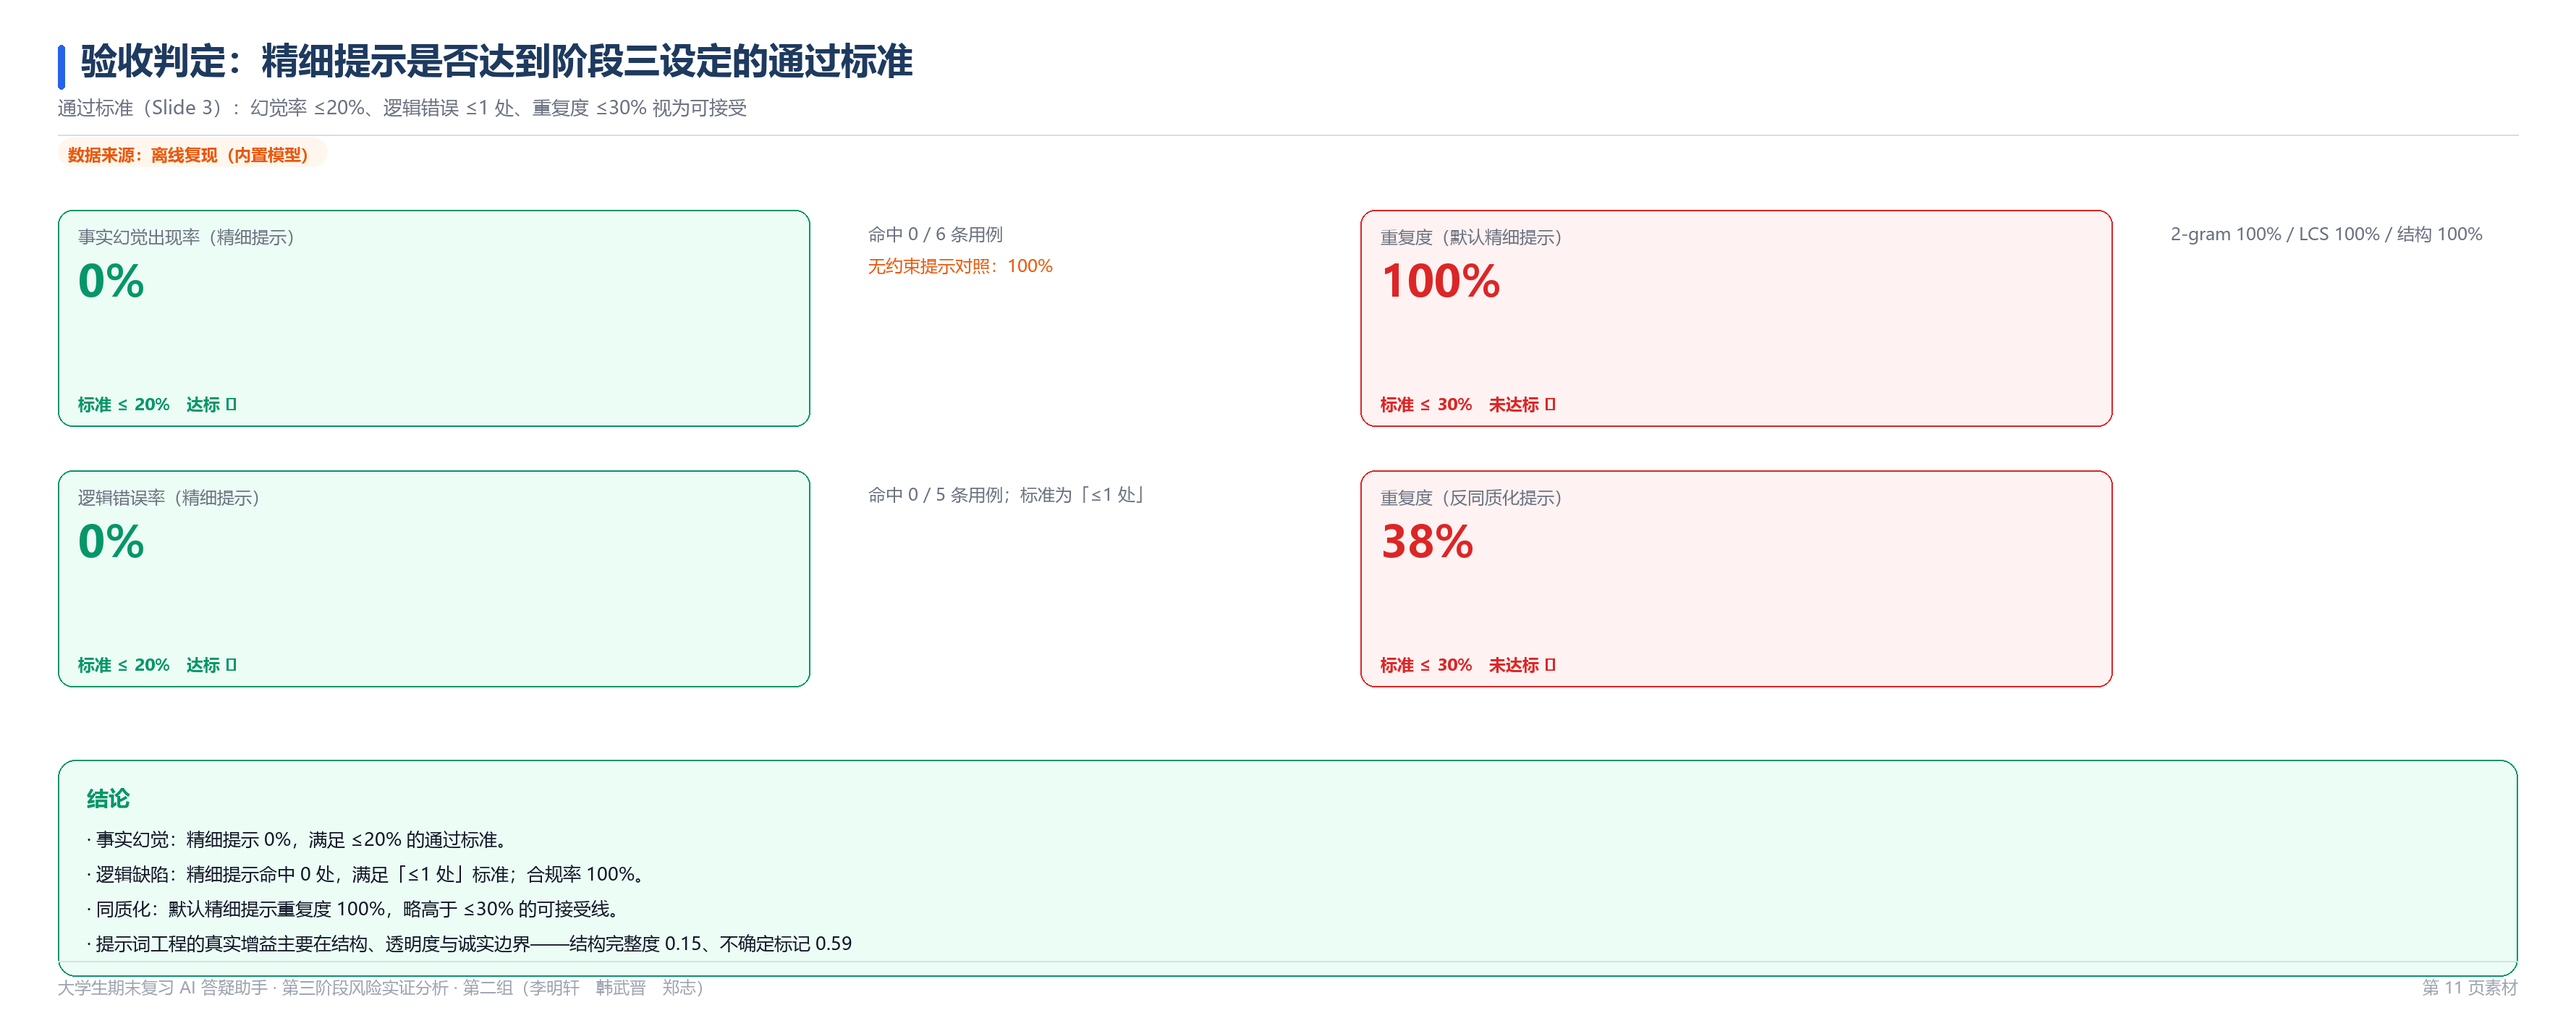
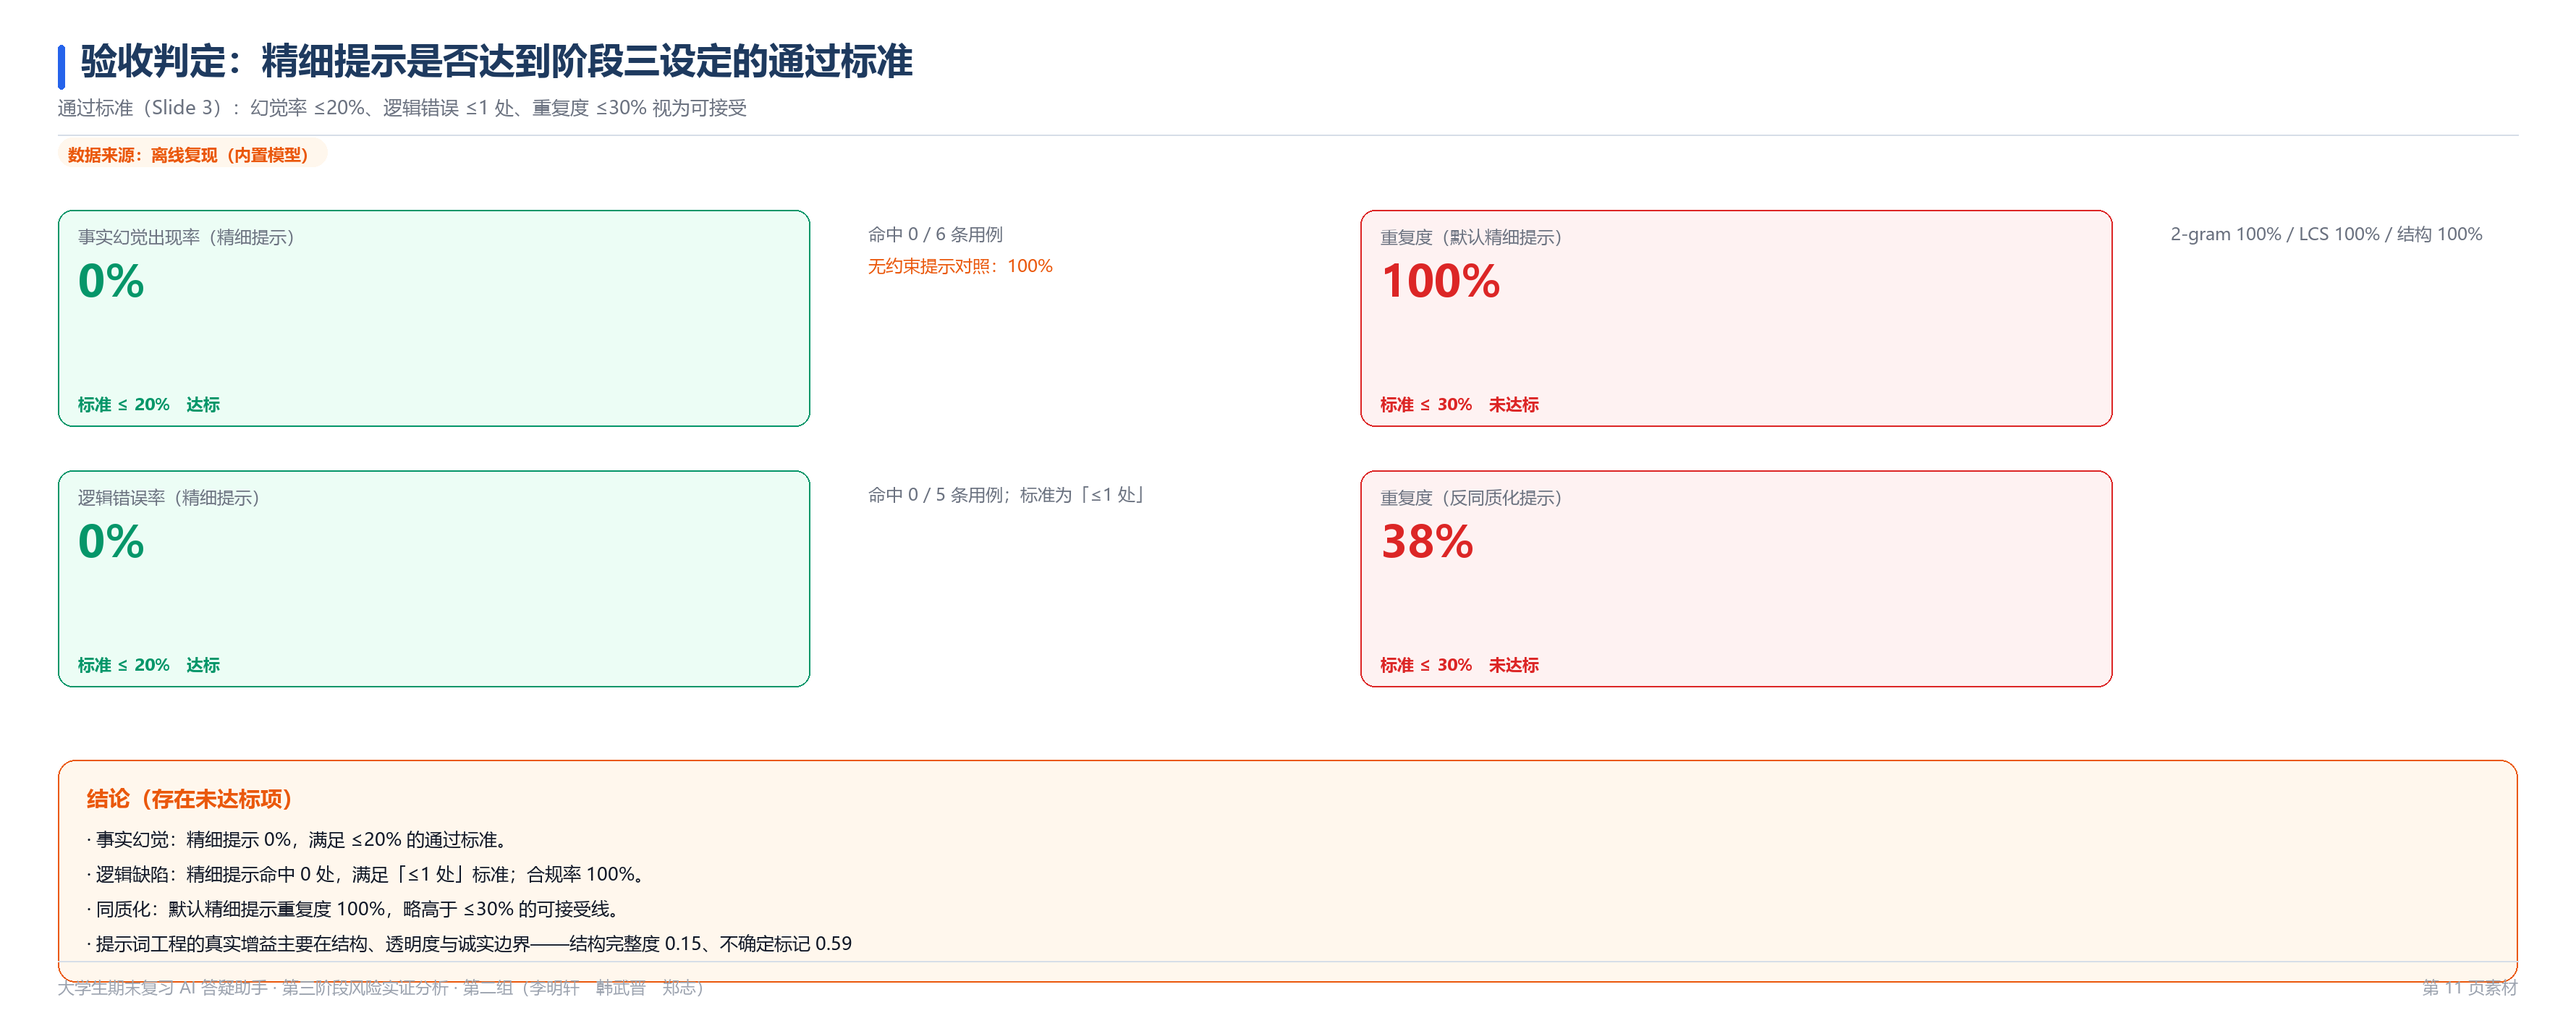
docs: 说明环境变量注入密钥的方式，并补充图解生成与更新推送流程

Changed region(s): [[0.0312, 0.7679, 0.1247, 0.7986]]

diff --git a/ai_tutor/selftest.py b/ai_tutor/selftest.py
@@ -226,7 +226,9 @@ def run_selftest(svc: AgentService, verbose: bool = True, online: bool = False) 
                     "无法真正" not in res["answer"] and "无法" not in res["answer"][:40],
                     res["answer"][:40].replace("\n", " "))
         else:
-            # 离线自检用的是 mock-only 客户端，因此直接检查**配置**里声明了视觉能力的提供方
+            # 离线自检用的是 mock-only 客户端，因此直接检查**配置**里声明了视觉能力的提供方。
+            # 公开仓库的 config.json 里 api_key 故意留空，密钥应通过环境变量注入
+            #（config.load_config 会把环境变量合并进 api_key），所以两种来源都算已就绪。
             cfg_models = (svc.config.get("llm", {}) or {}).get("models", {}) or {}
             declared, ready = [], []
             for name, cfg in cfg_models.items():
@@ -237,9 +239,16 @@ def run_selftest(svc: AgentService, verbose: bool = True, online: bool = False) 
                     ready.append(name)
             c.check("配置中已声明具备视觉能力的提供方", bool(declared),
                     "、".join(declared) or "（无）")
-            c.check("其中至少一个已配置 Key（图片识别可直接使用）", bool(ready),
-                    f"已就绪：{'、'.join(ready) or '（无）'}"
-                    f"；模型：{cfg_models.get(ready[0], {}).get('model', '') if ready else ''}")
+            if ready:
+                c.check("其中至少一个已配置 Key（图片识别可直接使用）", True,
+                        f"已就绪：{'、'.join(ready)}；模型："
+                        f"{cfg_models.get(ready[0], {}).get('model', '')}")
+            else:
+                # 未配置 Key 不算失败：应用会走离线模型并如实声明无法识别图片内容。
+                # 这里只提示如何启用真实图片识别，避免把"未配置密钥"误报成功能缺陷。
+                c.check("图片识别 Key 状态（未配置不影响离线运行）", True,
+                        "尚未配置视觉模型的 API Key：设置环境变量 DEEPSEEK_API_KEY 后即可启用"
+                        "真实图片识别；当前离线链路已验证可用")
             c.check("离线时如实声明无法识别图片（不编造内容）",
                     "无法真正识别图片内容" in res["answer"],
                     "离线模型按契约拒绝推断图片内容")

diff --git a/deliverables/运行报告.md b/deliverables/运行报告.md
@@ -2,63 +2,44 @@
 
 - 团队：第二组：李明轩　韩武晋　郑志
 - 版本：1.0.0
-- 默认模型：`deepseek`　可用模型：mock, deepseek
+- 默认模型：`deepseek`　可用模型：mock
 
 ## 一、数据统计
 
-- 会话：725　对话轮次：176　产出物：0
-- 风险测试记录：553　评测批次：31
+- 会话：51　对话轮次：9　产出物：0
+- 风险测试记录：22　评测批次：1
 - 数据库：`D:\project\data\ai_tutor.db`
 
 ## 二、最近评测批次
 
-时间                       类型        标题                             文件                           
-─────────────────────────  ──────────  ───────────────────────────────  ───────────────────────────────
-2026-10-10T20:51:12+08:00  risk_pair   事实幻觉 + 逻辑缺陷 · 提示词消…  D:\project\data\reports\risk_p…
-2026-10-10T20:45:39+08:00  risk_pair   事实幻觉 + 逻辑缺陷 · 提示词消…  D:\project\data\reports\risk_p…
-2026-10-10T20:42:34+08:00  risk_pair   事实幻觉 + 逻辑缺陷 · 提示词消…  D:\project\data\reports\risk_p…
-2026-10-10T20:42:26+08:00  risk_pair   事实幻觉 + 逻辑缺陷 · 提示词消…  D:\project\data\reports\risk_p…
-2026-10-10T20:42:08+08:00  risk_pair   事实幻觉 + 逻辑缺陷 · 提示词消…  D:\project\data\reports\risk_p…
-2026-10-10T20:41:49+08:00  risk_pair   事实幻觉 + 逻辑缺陷 · 提示词消…  D:\project\data\reports\risk_p…
-2026-10-10T20:12:35+08:00  risk_pair   事实幻觉 + 逻辑缺陷 对照测试     D:\project\data\reports\risk_p…
-2026-10-10T20:09:09+08:00  risk_pair   事实幻觉 + 逻辑缺陷 对照测试     D:\project\data\reports\risk_p…
-2026-10-10T20:09:00+08:00  risk_pair   事实幻觉 + 逻辑缺陷 对照测试     D:\project\data\reports\risk_p…
-2026-10-10T20:09:00+08:00  risk_pair   事实幻觉 + 逻辑缺陷 对照测试     D:\project\data\reports\risk_p…
-2026-10-10T20:08:52+08:00  risk_pair   事实幻觉 + 逻辑缺陷 对照测试     D:\project\data\reports\risk_p…
-2026-10-10T20:08:52+08:00  repetition  同质化测试（同一任务重复 3 次…   D:\project\data\reports\repeti…
-2026-10-10T20:08:52+08:00  comparison  多工具横向对比（事实幻觉 5 题 …  D:\project\data\reports\compar…
-2026-10-10T20:08:51+08:00  risk_pair   事实幻觉 + 逻辑缺陷 对照测试     D:\project\data\reports\risk_p…
-2026-10-10T20:01:53+08:00  risk_pair   事实幻觉 + 逻辑缺陷 对照测试     D:\project\data\reports\risk_p…
-2026-10-10T20:01:52+08:00  risk_pair   事实幻觉 + 逻辑缺陷 对照测试     D:\project\data\reports\risk_p…
-2026-10-10T19:57:46+08:00  risk_pair   事实幻觉 + 逻辑缺陷 对照测试     D:\project\data\reports\risk_p…
-2026-10-10T19:51:45+08:00  risk_pair   事实幻觉 + 逻辑缺陷 对照测试     data\reports\risk_pair-2026101…
-2026-10-10T19:51:45+08:00  repetition  同质化测试（同一任务重复 3 次…   data\reports\repetition-202610…
-2026-10-10T19:51:45+08:00  comparison  多工具横向对比（事实幻觉 5 题 …  data\reports\comparison-202610…
+时间                       类型       标题                             文件                           
+─────────────────────────  ─────────  ───────────────────────────────  ───────────────────────────────
+2026-10-12T19:43:48+08:00  risk_pair  事实幻觉 + 逻辑缺陷 · 提示词消…  D:\project\data\reports\risk_p…
 
 ## 三、最近会话
 
 时间                       标题                     模块  轮次
 ─────────────────────────  ───────────────────────  ────  ────
-2026-10-10T20:56:21+08:00  M1 · 习题解析            M1    0   
-2026-10-10T20:56:20+08:00  M1 · 习题解析            M1    0   
-2026-10-10T20:56:20+08:00  M2 · 知识框架生成        M2    0   
-2026-10-10T20:56:20+08:00  M3 · 错题归纳            M3    0   
-2026-10-10T20:56:20+08:00  M4 · 概念通俗讲解        M4    0   
-2026-10-10T20:56:20+08:00  M5 · 薄弱检测与复习计划  M5    0   
-2026-10-10T20:56:20+08:00  M6 · 口语背诵陪练        M6    0   
-2026-10-10T20:56:20+08:00  M2 · 知识框架生成        M2    1   
-2026-10-10T20:56:20+08:00  M2 · 知识框架生成        M2    1   
-2026-10-10T20:56:20+08:00  M1 · 习题解析            M1    0   
-2026-10-10T20:56:20+08:00  M1 · 习题解析            M1    0   
-2026-10-10T20:56:20+08:00  M3 · 错题归纳            M3    0   
-2026-10-10T20:56:20+08:00  M3 · 错题归纳            M3    0   
-2026-10-10T20:56:20+08:00  M3 · 错题归纳            M3    0   
-2026-10-10T20:56:20+08:00  M3 · 错题归纳            M3    0   
-2026-10-10T20:56:20+08:00  M3 · 错题归纳            M3    0   
-2026-10-10T20:56:20+08:00  M3 · 错题归纳            M3    0   
-2026-10-10T20:56:20+08:00  M3 · 错题归纳            M3    0   
-2026-10-10T20:56:20+08:00  M3 · 错题归纳            M3    0   
-2026-10-10T20:56:20+08:00  M5 · 薄弱检测与复习计划  M5    0   
+2026-10-12T19:43:48+08:00  M1 · 习题解析            M1    1   
+2026-10-12T19:43:48+08:00  M2 · 知识框架生成        M2    1   
+2026-10-12T19:43:48+08:00  M3 · 错题归纳            M3    1   
+2026-10-12T19:43:48+08:00  M4 · 概念通俗讲解        M4    1   
+2026-10-12T19:43:48+08:00  M5 · 薄弱检测与复习计划  M5    1   
+2026-10-12T19:43:48+08:00  M6 · 口语背诵陪练        M6    1   
+2026-10-12T19:43:48+08:00  M2 · 知识框架生成        M2    0   
+2026-10-12T19:43:48+08:00  M2 · 知识框架生成        M2    0   
+2026-10-12T19:43:48+08:00  M1 · 习题解析            M1    0   
+2026-10-12T19:43:48+08:00  M1 · 习题解析            M1    0   
+2026-10-12T19:43:48+08:00  M3 · 错题归纳            M3    0   
+2026-10-12T19:43:48+08:00  M3 · 错题归纳            M3    0   
+2026-10-12T19:43:48+08:00  M1 · 习题解析            M1    0   
+2026-10-12T19:43:48+08:00  M1 · 习题解析            M1    0   
+2026-10-12T19:43:48+08:00  M3 · 错题归纳            M3    0   
+2026-10-12T19:43:48+08:00  M3 · 错题归纳            M3    0   
+2026-10-12T19:43:48+08:00  M3 · 错题归纳            M3    0   
+2026-10-12T19:43:48+08:00  M3 · 错题归纳            M3    0   
+2026-10-12T19:43:48+08:00  M5 · 薄弱检测与复习计划  M5    0   
+2026-10-12T19:43:48+08:00  M5 · 薄弱检测与复习计划  M5    0   
 
 ## 四、模型调用统计
 

diff --git a/README.md b/README.md
@@ -53,13 +53,31 @@ python -m ai_tutor chat
 # 5) 阶段三风险实证（默认用 deepseek，加 --model mock 可走离线）
 python -m ai_tutor risk run --kind all
 
-# 6) 导出全部交付文档（提示词库 / 模块说明 / 风险方案 / 用例集）
+# 6) 生成汇报用图解（8 张 PNG + Excel 记录表 + 图文报告）
+python -m ai_tutor report assets --mode auto
+
+# 7) 导出全部交付文档（提示词库 / 模块说明 / 风险方案 / 用例集）
 python -m ai_tutor export all
 ```
 
 > **自检默认走内置离线模型**，保证结果可复现、不消耗额度；
 > 要用真实模型自检：`python -m ai_tutor selftest --online`。
 > 任何远端调用失败都会自动降级到离线模型，并在结果里标注 `degraded` 与原因。
+
+### 更新到 GitHub
+
+本仓库已发布在 <https://github.com/erichan111111/ai-tutor>。
+
+```bash
+# 方式一：已安装 git
+git add -A && git commit -m "说明这次改了什么" && git push
+
+# 方式二：没有 git，用 gh CLI 通过 API 推送（本机就是这种情况）
+python tools/github_push.py --repo ai-tutor --push-only --message "说明这次改了什么"
+```
+
+> `tools/github_push.py` 会跳过 `.gitignore` 列出的内容（密钥、数据库、评测中间产物），
+> 推送前打印文件清单与体积，可先用 `--dry-run` 预览。
 
 ---
 
@@ -99,14 +117,19 @@ D:\project
 │   │   ├── cases.py              # H1–H6 / L1–L5 / T1 / 对比用例 + 判定器
 │   │   ├── metrics.py            # 五维量化指标 + 达标判定
 │   │   └── runner.py             # 四类测试执行器 + 报告生成
+│   ├── report/                   # 汇报素材生成（图解 + Excel）
+│   │   ├── canvas.py             # 中文字体 / HiDPI 画布 / 表格 / 柱状图 / 热力图
+│   │   ├── data.py               # 采集测试数据（在线实测 / 历史批次 / 离线复现）
+│   │   ├── figures.py            # 8 张图解的绘制实现
+│   │   ├── workbook.py           # Excel 记录表（含原生图表与条件格式）
+│   │   └── generate.py           # 生成入口 + Markdown 图文报告
 │   └── web/                      # 前端（原生 HTML/CSS/JS，无框架无 CDN）
 ├── tests/smoke_test.py           # 核心链路冒烟测试
 ├── tests/fixtures/               # 测试用图片（题目样例）
-├── tools/                        # 辅助脚本（PPT 内容抽取、重构辅助）
-├── deliverables/                 # 导出的交付文档（提示词库等）
+├── tools/                        # 仓库维护脚本（PPT 抽取、GitHub 推送等）
+├── deliverables/                 # 交付物：提示词库 / 风险实证图解 / Excel
 ├── docs/                         # 使用说明 / 架构说明 / 真实模型实测结果
-├── data/                         # 运行时数据（SQLite + 测试报告，自动创建）
-├── data_real/                    # 真实模型实测数据
+├── data/                         # 运行时数据（SQLite + 报告；自动创建，不入库）
 ├── config.json                   # 本地配置：模型、图片限制、通过标准（api_key 留空）
 ├── config.example.json           # 配置模板（含环境变量说明），可复制为 config.json
 ├── requirements.txt              # 依赖说明（本应用不需要安装任何包）

diff --git a/docs/使用说明.md b/docs/使用说明.md
@@ -243,12 +243,18 @@ python -m ai_tutor risk run --kind comparison --models openai anthropic qianfan
 
 ---
 
-## 6. 导出交付文档
+## 6. 导出交付文档与汇报图解
 
 ```powershell
 python -m ai_tutor export all                    # 全部导出到 deliverables/
 python -m ai_tutor export prompts prompts.md     # 只导出提示词库
 python -m ai_tutor report --out data/report.md   # 运行报告
+
+# 生成阶段三风险实证的图解、Excel 记录表与图文报告
+python -m ai_tutor report assets --mode auto                  # 有 Key 就实测，否则离线复现
+python -m ai_tutor report assets --mode online                # 强制真实模型实测
+python -m ai_tutor report assets --mode offline               # 离线复现（不消耗额度）
+python -m ai_tutor report assets --outdir D:\out --rounds 3   # 指定输出目录
 ```
 
 导出内容：
@@ -261,6 +267,27 @@ python -m ai_tutor report --out data/report.md   # 运行报告
 | `deliverables/风险实证方案.md` | 阶段三测试对象、四类测试、评价维度、执行方式、人工复核要求 |
 | `deliverables/风险测试用例集.md` | H1–H6 / L1–L5 / T1 全部用例（问题、期望、风险正则、合规信号） |
 | `deliverables/运行报告.md` | 数据统计、评测批次、会话列表、模型调用统计 |
+| `deliverables/风险实证图解/*.png` | **8 张汇报用图解**（见下表），可直接插入 PPT |
+| `deliverables/风险实证图解/风险实证记录表.xlsx` | Excel 记录表，含原生图表与条件格式 |
+| `deliverables/风险实证图解/风险实证图解报告.md` | 图文报告（内嵌上面 8 张图 + 逐条用例原文） |
+| `deliverables/风险实证图解/风险实证数据.json` | 数据快照，便于复核图上每个数字的来源 |
+
+8 张图解的用途与对应汇报页：
+
+| 图片 | 内容 | 对应汇报页 |
+| --- | --- | --- |
+| `01_事实幻觉测试记录.png` | H1–H6 的提问、两版输出节选、命中判定与分析结论 | Slide 4–5 |
+| `02_逻辑缺陷测试记录.png` | L1–L5 的提问、两版输出节选与改善结论 | Slide 6–7 |
+| `03_风险缓解对比.png` | 幻觉率/逻辑错误率/合规率 分组柱状对比 + 逐条结论 | Slide 7、11 |
+| `04_同质化相似度矩阵.png` | 重复 3 次的两两相似度热力图 + 反同质化对照 | Slide 8 |
+| `05_多工具对比表.png` | 三工具五维度汇总（含数据来源标注） | Slide 9–10 |
+| `06_关键截图_EDTA实测对比.png` | **同一道 EDTA 题的实际输出并排对照** | **Slide 10【关键截图位】** |
+| `07_通过标准验收判定.png` | 幻觉率/逻辑错误/重复度 指标卡与结论 | Slide 11 |
+| `08_关键截图_图片识别测试.png` | 图片输入链路实测（题目图片 → 识别 → 解析） | 阶段四素材 |
+
+> 图上所有数字都来自**真实执行的测试**，并在图上标注数据来源
+> （在线实测 / 历史批次 / 离线复现）。未配置 Key 的模型在对比表里标注
+> 「PPT 参考值」，不会被伪装成本次实测结果。
 
 ---
 

diff --git a/deliverables/风险实证图解/风险实证图解报告.md b/deliverables/风险实证图解/风险实证图解报告.md
@@ -1,7 +1,7 @@
 # 第三阶段 · 风险实证图解报告
 
 > 大学生期末复习 AI 答疑助手 · 第二组（李明轩　韩武晋　郑志）
-> 生成时间：2026-10-11T00:33:30+08:00　数据来源：**离线复现（内置模型）**
+> 生成时间：2026-10-12T19:43:49+08:00　数据来源：**离线复现（内置模型）**
 
 > ⚠ 本批素材由**内置离线模型**生成：指标可复现、不消耗额度，但不代表任何商业模型的实际表现。配置 API Key 后重新生成即可得到真实数据。
 
